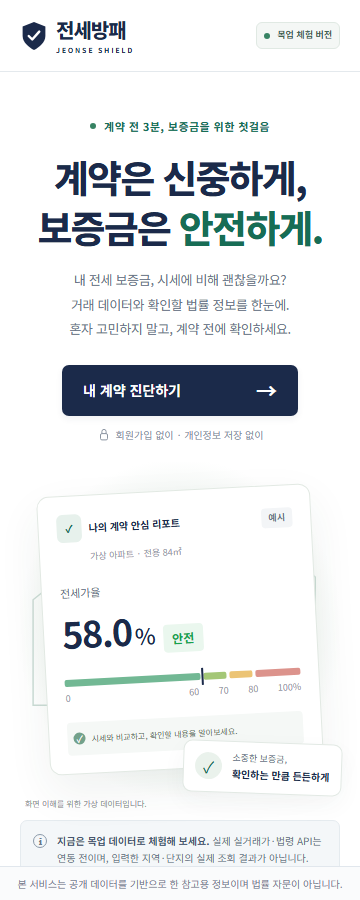
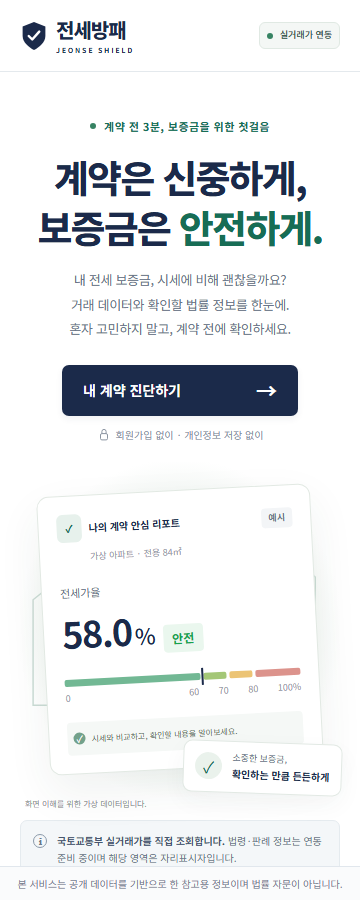
feat: compute the ratio from real transactions
mockTrades is gone. The report is built from the rows the complex list was
built from, so the two cannot disagree and no second round trip is needed.

A missing ratio now says which kind of missing it is. 'Not enough samples'
reads like a defect when the real reason is that the complex has not sold in
the window, so an empty trade list gets its own message naming the complex and
the range, and a thin one reports how many comparable sales it actually found.

The report states its provenance: the source, the month range, how many sales
it used, and how many cancelled deals were removed. A number whose inputs are
not stated cannot be checked against the source.

Copy that described mock data is replaced throughout, since it no longer
describes what the screen shows. The legal and precedent cards keep their
placeholder labels because those are still placeholders.

Browser tests now serve a fixture for the layout and verdict assertions, which
were keyed to the old mock numbers, and one pass runs against the live API end
to end. Both fixtures seed a single month: repeating rows across the six-month
window multiplied every sample count by six, which is what the first run
caught.

npm test: 75 passed. Browser checks: 60 passed.
Verified live: Jongno 경희궁자이(1단지), 84㎡, deposit 80,000 → 30.5% 안전,
median 261,750, 34 sales over 2026.04-2026.09 with 2 cancelled removed.

Changed region(s): [[0.1528, 0.9022, 0.8556, 0.9644], [0.7333, 0.0311, 0.9167, 0.0622]]

diff --git a/public/index.html b/public/index.html
@@ -4,7 +4,7 @@
   <meta charset="UTF-8">
   <meta name="viewport" content="width=device-width, initial-scale=1">
   <meta name="theme-color" content="#1B2A4A">
-  <meta name="description" content="전세방패 — 계약 전 확인하는 나의 보증금. 목업 데이터로 체험하는 전월세 셀프 위험 진단 서비스입니다.">
+  <meta name="description" content="전세방패 — 계약 전 확인하는 나의 보증금. 국토교통부 실거래가로 계산하는 전월세 셀프 위험 진단 서비스입니다.">
   <title>전세방패 — 내 보증금을 지키는 첫걸음</title>
   <link rel="icon" type="image/svg+xml" href="/shield.svg">
   <link rel="stylesheet" href="/style.css">
@@ -15,7 +15,7 @@
   <header class="site-header">
     <div class="header-inner">
       <a class="brand" href="#home" aria-label="전세방패 홈"><svg viewBox="0 0 32 36" aria-hidden="true"><path d="M16 2 29 7v11c0 7-7 13-13 16C10 31 3 25 3 18V7Z" fill="currentColor"/><path d="m10 18 4 4 8-9" fill="none" stroke="white" stroke-width="2.8" stroke-linecap="round" stroke-linejoin="round"/></svg><span>전세방패<small>JEONSE SHIELD</small></span></a>
-      <nav aria-label="주요 메뉴"><a href="#why" class="nav-about">서비스 소개</a><a href="#standards" class="nav-about">진단 기준</a><span class="header-status"><span class="status-dot"></span>목업 체험 버전</span></nav>
+      <nav aria-label="주요 메뉴"><a href="#why" class="nav-about">서비스 소개</a><a href="#standards" class="nav-about">진단 기준</a><span class="header-status"><span class="status-dot"></span>실거래가 연동</span></nav>
     </div>
   </header>
 
@@ -29,7 +29,7 @@
           <a href="#diagnosis" class="button button-primary hero-cta">내 계약 진단하기 <span aria-hidden="true">→</span></a>
           <p class="cta-note"><svg viewBox="0 0 20 20" aria-hidden="true"><rect x="5" y="8" width="10" height="9" rx="2"/><path d="M7 8V5a3 3 0 0 1 6 0v3"/></svg>회원가입 없이 · 개인정보 저장 없이</p>
         </div>
-        <div class="hero-visual" aria-label="전세방패 목업 진단 리포트 예시">
+        <div class="hero-visual" aria-label="전세방패 진단 리포트 예시">
           <div class="visual-grid" aria-hidden="true"></div>
           <svg class="house-outline" viewBox="0 0 440 340" fill="none" aria-hidden="true"><path d="M18 160 112 85 207 160v145H18Z M43 141V75h32v40 M231 129 318 58 406 129v175H231Z" stroke="#cbdcd5" stroke-width="2"/><path d="M52 199h43v48H52z M126 199h43v105h-43z M258 154h40v43h-40z M339 154h40v43h-40z M258 229h40v75h-40z M339 229h40v43h-40z" fill="#e7efeb" stroke="#cbdcd5" stroke-width="2"/></svg>
           <article class="preview-report">
@@ -44,7 +44,7 @@
           <p class="visual-disclaimer">화면 이해를 위한 가상 데이터입니다.</p>
         </div>
       </section>
-      <aside class="mock-notice container" aria-label="목업 데이터 안내"><span class="info-icon" aria-hidden="true">i</span><p><strong>지금은 목업 데이터로 체험해 보세요.</strong> 실제 실거래가·법령 API는 연동 전이며, 입력한 지역·단지의 실제 조회 결과가 아닙니다.</p></aside>
+      <aside class="mock-notice container" aria-label="데이터 안내"><span class="info-icon" aria-hidden="true">i</span><p><strong>국토교통부 실거래가를 직접 조회합니다.</strong> 법령·판례 정보는 연동 준비 중이며 해당 영역은 자리표시자입니다.</p></aside>
       <section id="why" class="why-section container" aria-labelledby="why-title">
         <div class="section-heading"><div><span class="eyebrow muted">WHY JEONSE SHIELD</span><h2 id="why-title">내 보증금은, 내가 먼저 확인할 수 있도록</h2></div><p>막연한 걱정을 구체적인 확인으로 바꿉니다.</p></div>
         <div class="why-grid">
@@ -60,7 +60,7 @@
       <a href="#home" class="back-link">← 처음으로</a>
       <div class="wizard-heading"><span class="eyebrow">MY CONTRACT CHECK</span><h1 id="wizard-title" tabindex="-1">어떤 계약을 준비하고 계신가요?</h1><p>간단한 정보로, 계약 전 확인할 내용을 알아보세요.</p></div>
       <ol class="wizard-progress" aria-label="입력 진행 단계"><li data-step-indicator="1" aria-current="step"><span>1</span>지역 선택</li><li data-step-indicator="2"><span>2</span>단지 입력</li><li data-step-indicator="3"><span>3</span>계약 조건</li></ol>
-      <aside class="mock-notice"><span class="info-icon" aria-hidden="true">i</span><p><strong>목업 데이터 시연</strong><br>입력한 지역·단지의 실제 조회 결과가 아닙니다.</p></aside>
+      <aside class="mock-notice"><span class="info-icon" aria-hidden="true">i</span><p><strong>실거래가 조회</strong><br>선택한 시군구의 최근 6개월 실거래 자료로 계산합니다.</p></aside>
       <form id="diagnosis-form" novalidate>
         <fieldset class="form-step" data-step="1"><legend><small>STEP 01</small>계약할 집은 어디에 있나요?</legend><p class="field-description">아파트가 위치한 시도와 시군구를 선택해 주세요.</p>
           <label for="sido-select">시도 <span class="required">필수</span></label><select id="sido-select" name="sido" required aria-describedby="form-error"><option value="">지역 정보를 불러오는 중입니다</option></select>
@@ -87,13 +87,14 @@
     </section>
 
     <section id="result-screen" class="screen result-shell container" aria-labelledby="result-title" hidden>
-      <div class="result-topline"><a href="#diagnosis" class="back-link" id="edit-input">← 입력 정보 수정</a><span class="sample-label">MOCK REPORT</span></div>
+      <div class="result-topline"><a href="#diagnosis" class="back-link" id="edit-input">← 입력 정보 수정</a><span class="sample-label">LIVE DATA</span></div>
       <div class="result-heading"><div><span class="eyebrow">YOUR CONTRACT REPORT</span><h1 id="result-title" tabindex="-1">내 계약, 한눈에 확인하기</h1><p id="contract-summary"></p></div><a href="#home" class="button button-secondary" id="new-diagnosis">처음으로</a></div>
-      <aside class="mock-notice"><span class="info-icon" aria-hidden="true">i</span><p><strong>목업 데이터 시연 — 실제 계약 판단에 사용하지 마세요.</strong><br>입력한 지역·단지의 실제 조회 결과가 아닙니다. 가상 단지의 고정 거래로 계산한 예시입니다.</p></aside>
-      <p id="monthly-rent-note" class="monthly-rent-note" hidden>월세 계약은 보증금 비율만 표시합니다. 월세 환산, 총 주거비 및 월세 적정성은 이번 진단에 포함되지 않습니다.</p>
+      <aside class="mock-notice"><span class="info-icon" aria-hidden="true">i</span><p><strong>실거래가 기반 참고 정보입니다.</strong><br>권리관계·선순위 담보·임대인 상태는 포함되지 않습니다. 계약 판단은 등기부등본 확인과 전문가 상담을 거쳐 주세요.</p></aside>
+      <p id="data-provenance" class="data-provenance"></p>
+        <p id="monthly-rent-note" class="monthly-rent-note" hidden>월세 계약은 보증금 비율만 표시합니다. 월세 환산, 총 주거비 및 월세 적정성은 이번 진단에 포함되지 않습니다.</p>
       <div class="report-top-grid">
-        <article class="report-card ratio-card" id="ratio-card" aria-labelledby="ratio-title"><div class="card-title-row"><h2 id="ratio-title">보증금의 시세 대비 비율</h2><span class="sample-label">목업</span></div><p class="report-description">가상 단지 유사 면적의 매매 중위가 기준</p><div id="ratio-content"></div></article>
-        <article class="report-card distribution-card" aria-labelledby="distribution-title"><div class="card-title-row"><h2 id="distribution-title">유사 면적 매매 거래 분포</h2><span id="sample-count" class="sample-label"></span></div><p class="report-description">가상 단지 · 전용면적 ±10% · 가격 단위: 만원</p><div id="distribution-content"></div></article>
+        <article class="report-card ratio-card" id="ratio-card" aria-labelledby="ratio-title"><div class="card-title-row"><h2 id="ratio-title">보증금의 시세 대비 비율</h2></div><p class="report-description">동일 단지 유사 면적의 매매 중위가 기준</p><div id="ratio-content"></div></article>
+        <article class="report-card distribution-card" aria-labelledby="distribution-title"><div class="card-title-row"><h2 id="distribution-title">유사 면적 매매 거래 분포</h2><span id="sample-count" class="sample-label"></span></div><p class="report-description">동일 단지 · 전용면적 ±10% · 가격 단위: 만원</p><div id="distribution-content"></div></article>
       </div>
       <section class="report-card checklist-card" aria-labelledby="checklist-title"><div class="card-title-row"><div><span class="eyebrow muted">BEFORE YOU SIGN</span><h2 id="checklist-title">계약 전, 꼭 확인하세요</h2></div><span id="checklist-count" class="checklist-count" aria-live="polite">0 / 5 확인</span></div><p class="report-description">비율이 낮아도 권리관계에 따라 위험할 수 있습니다. 체크 상태는 저장되지 않습니다.</p><div class="checklist-grid">
         <label class="check-item"><input type="checkbox"><span><strong>등기부등본 확인</strong><small>소유자와 권리관계 확인</small></span></label>
@@ -116,7 +117,7 @@
         <li>법제처 국가법령정보 공동활용</li>
       </ul>
       <p>실거래가는 신고 기준 자료로 최근 거래분이 누락될 수 있습니다. 실제 계약 전에는 등기부등본 확인과 전문가 상담을 권장합니다.</p>
-      <p class="mock-note">현재 화면은 실제 API 연동 전 목업 시연입니다.</p>
+      <p class="mock-note">법령·판례 정보는 연동 준비 중입니다.</p>
     </section>
   </main>
   <footer id="site-footer" class="site-footer"><p class="footer-disclaimer">본 서비스는 공개 데이터를 기반으로 한 참고용 정보이며 법률 자문이 아닙니다.</p></footer>

diff --git a/public/app.js b/public/app.js
@@ -6,23 +6,6 @@ const $ = (selector) => document.querySelector(selector);
 const $$ = (selector) => [...document.querySelectorAll(selector)];
 const format = (number) => new Intl.NumberFormat('ko-KR', { maximumFractionDigits: 2 }).format(number);
 const money = (number) => `${format(number)}만원`;
-// Fixed fictional transactions. Not generated from or matched to user-entered prices/names.
-const mockTrades = [
-  { name: '가상 단지', area: 82, price: 48000 },
-  { name: '가상 단지', area: 84, price: 51000 },
-  { name: '가상 단지', area: 84.5, price: 53000 },
-  { name: '가상 단지', area: 83, price: 56000 },
-  { name: '가상 단지', area: 85, price: 58000 },
-  { name: '가상 단지', area: 84, price: 60000 },
-  { name: '가상 단지', area: 84, price: 60000 },
-  { name: '가상 단지', area: 86, price: 62000 },
-  { name: '가상 단지', area: 83.5, price: 64000 },
-  { name: '가상 단지', area: 84, price: 66000 },
-  { name: '가상 단지', area: 85, price: 68000 },
-  { name: '가상 단지', area: 84, price: 72000 },
-  { name: '가상 단지', area: 59, price: 39000 },
-  { name: '가상 단지', area: 59.5, price: 41000 },
-];
 let regions = [];
 let step = 1;
 let contract = null;
@@ -241,11 +224,17 @@ $('#diagnosis-form').addEventListener('submit', (event) => {
   }
   const group = regions.find((entry) => entry.sido === $('#sido-select').value);
   const district = group.items.find((entry) => entry.code === $('#district-select').value);
+  // The rows are already in memory: the complex list was built from them. No
+  // second round trip, and the report cannot disagree with the list it came from.
+  const picked = complexTransactions(selectedComplex.key, monthlyRows.trades, monthlyRows.rents);
   contract = {
     sido: group.sido, district: district.name, lawdCd: district.code,
-    apartment: selectedComplex.name, complexKey: selectedComplex.key,
+    apartment: picked.name ?? selectedComplex.name, complexKey: selectedComplex.key,
     area: Number($('#area-input').value),
     deposit: Number($('#deposit-input').value), rent: Number($('#rent-input').value),
+    trades: picked.trades, rents: picked.rents,
+    cancelledCount: picked.cancelledCount,
+    rangeLabel: monthRangeLabel(monthlyRows.months),
   };
   location.hash = 'result';
 });
@@ -317,18 +306,44 @@ function renderDistribution(stats, deposit) {
     <p class="distribution-note">25%·75%는 실제 관측값(nearest-rank)을 사용합니다.<br>내 보증금 마커는 매매가와의 비교이며 전월세 백분위가 아닙니다.</p>`;
 }
 
+// Why a ratio could not be produced. The distinction matters: "not enough
+// samples" reads like a defect when the real reason is that this complex has
+// not sold in the window we looked at.
+function missingRatioReason(trades, size) {
+  if (trades.length === 0) {
+    return {
+      heading: '매매 거래가 없어 전세가율을 낼 수 없습니다',
+      detail: `${contract.apartment}은(는) ${contract.rangeLabel} 매매 거래가 없습니다.`
+        + '<br>전세가율은 같은 단지 매매가를 분모로 쓰기 때문에 계산할 수 없습니다.',
+    };
+  }
+  return {
+    heading: '표본 부족 — 판정 불가',
+    detail: `전용 ${format(contract.area)}㎡ 부근 매매가 ${size}건뿐입니다.`
+      + '<br>3건 미만의 중위가는 믿을 수 없어 전세가율을 표시하지 않습니다.',
+  };
+}
+
 function renderResult() {
-  const result = jeonseRatio(contract.deposit, mockTrades, contract.area);
+  const trades = contract.trades ?? [];
+  const result = jeonseRatio(contract.deposit, trades, contract.area);
   const decision = verdict(result);
-  const size = similarPrices(mockTrades, contract.area).length;
-  const stats = tradeDistribution(mockTrades, contract.area);
-  // User-provided text is never inserted as HTML.
+  const size = similarPrices(trades, contract.area).length;
+  const stats = tradeDistribution(trades, contract.area);
+  // Ministry-supplied text is never inserted as HTML.
   $('#contract-summary').textContent = `${contract.sido} ${contract.district === contract.sido ? '' : contract.district} · ${contract.apartment} · 전용 ${format(contract.area)}㎡ · ${contract.rent === 0 ? '전세' : '월세'} · 보증금 ${money(contract.deposit)}${contract.rent > 0 ? ` · 월세 ${money(contract.rent)}` : ''}`;
+  // Where the numbers came from, including rows that were removed. A report
+  // that quietly drops cancelled deals cannot be checked against the source.
+  const provenance = [`국토교통부 실거래가 · ${contract.rangeLabel}`, `매매 ${format(contract.trades.length)}건`];
+  if (contract.cancelledCount > 0) provenance.push(`해제 거래 ${format(contract.cancelledCount)}건 제외`);
+  $('#data-provenance').textContent = provenance.join(' · ');
+
   $('#monthly-rent-note').hidden = contract.rent === 0;
   $('#sample-count').textContent = `표본 ${size}건`;
   $('#ratio-card').dataset.verdict = decision.level;
   if (decision.level === 'unknown') {
-    $('#ratio-content').innerHTML = `<div class="unknown-state"><span class="unknown-symbol" aria-hidden="true">—</span><h3>표본 부족 — 판정 불가</h3><p>유사 면적 매매 거래 표본 ${size}건<br>표본 3건 미만으로 전세가율을 표시하지 않습니다.</p></div><p class="ratio-warning">표본을 늘리려고 면적 범위를 넓히거나 가격을 추정하지 않습니다.</p>`;
+    const reason = missingRatioReason(trades, size);
+    $('#ratio-content').innerHTML = `<div class="unknown-state"><span class="unknown-symbol" aria-hidden="true">—</span><h3>${reason.heading}</h3><p>${reason.detail}</p></div><p class="ratio-warning">표본을 늘리려고 면적 범위를 넓히거나 가격을 추정하지 않습니다.</p>`;
     $('#distribution-content').innerHTML = '<div class="unknown-state"><span class="unknown-symbol" aria-hidden="true">—</span><h3>거래 분포를 표시할 수 없습니다</h3><p>표본 3건 이상이 필요합니다.<br>매매가격 통계와 보증금 위치를 표시하지 않습니다.</p></div>';
   } else {
     // Truncate to one decimal so rounding never displays the next verdict boundary.

diff --git a/public/style.css b/public/style.css
@@ -13,3 +13,4 @@
 .complex-option small{font-size:11px;color:var(--muted)}
 .complex-option.selected{background:#eef5f1}
 .complex-option.selected strong{color:#2f6b50}
+.data-provenance{margin:6px 0 0;font-size:12px;color:var(--muted);line-height:1.6}
